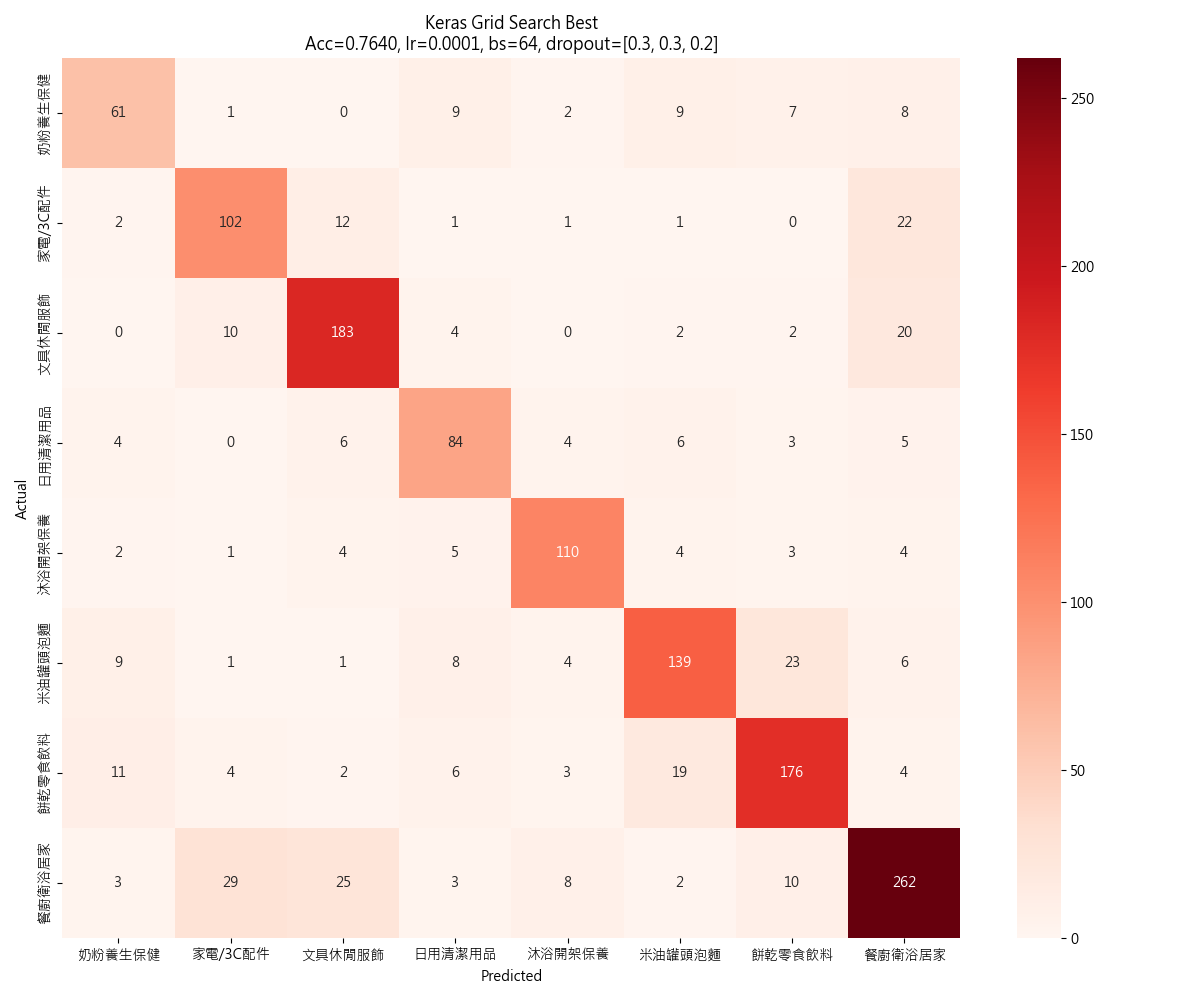
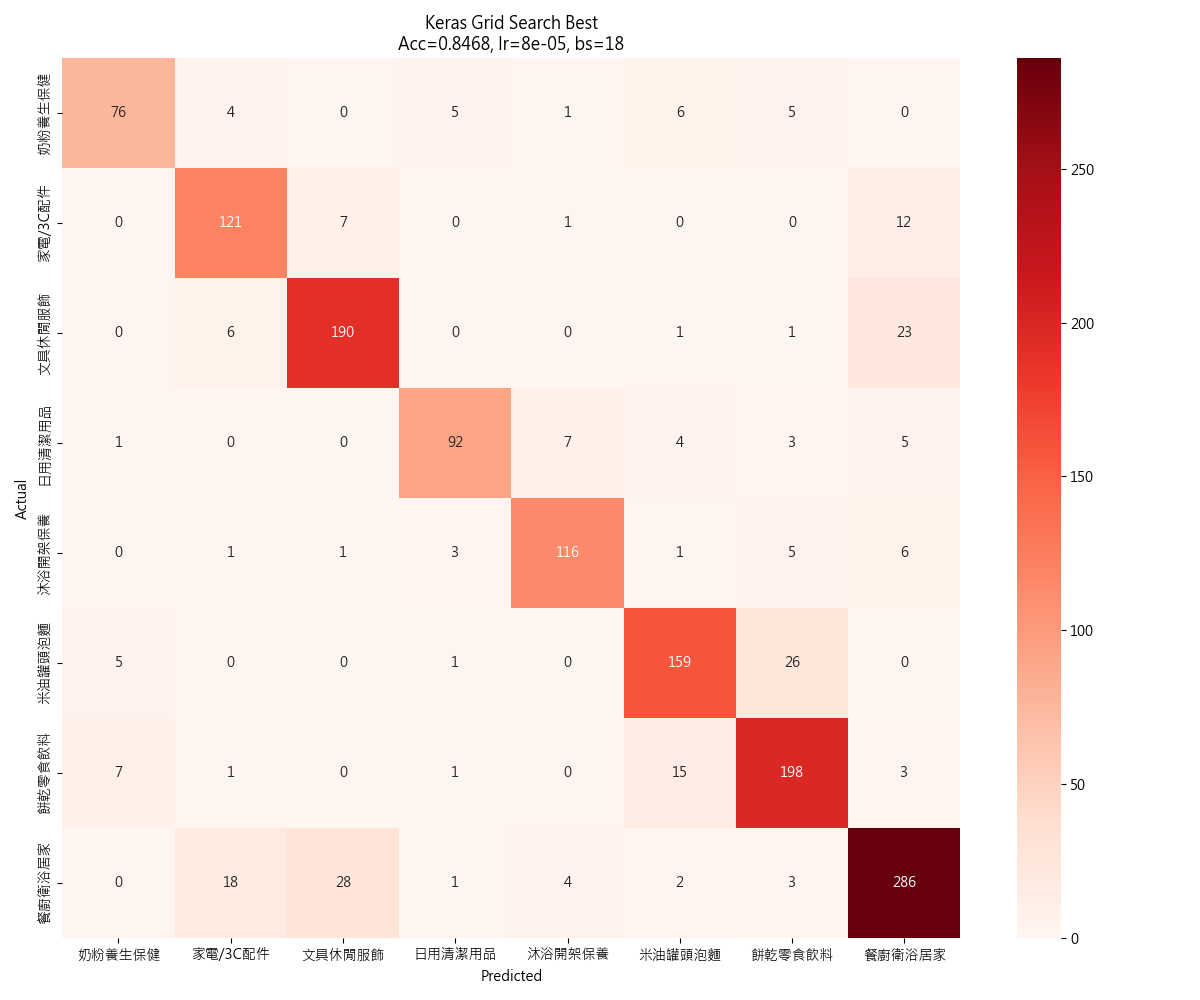
feat: 更新 Keras 模型架構與超參數，新增斷點續練邏輯及最佳化結果紀錄

diff --git a/src/semester-project/08_train_neural_network.pytorch.grid_search.py b/src/semester-project/08_train_neural_network.pytorch.grid_search.py
@@ -40,7 +40,6 @@ def build_keras_model(input_dim, num_classes, learning_rate, dropout_list):
     架構：512 -> 256 -> 128 -> 64 -> Softmax
     dropout_list: [d0, d1, d2, d3] (共 4 個參數)
     """
-    # 解包 4 個 dropout 參數
     if len(dropout_list) != 4:
         raise ValueError(f"Expected 4 dropout values, got {len(dropout_list)}")
 
@@ -147,32 +146,111 @@ def main():
     # 轉換驗證集標籤為 one-hot
     y_valid_keras = to_categorical(y_valid, num_classes=num_classes)
 
-    lr_list = [0.0001, 0.00015, 0.0002, 0.00025, 0.0003, 0.0004]
-
-    bs_list = [16, 20, 24, 28, 32, 40]
-
-    dropout_grid = [
-        [0.4, 0.35, 0.3, 0.25],
-        [0.3, 0.25, 0.2, 0.15],
-        [0.5, 0.45, 0.4, 0.35],
-        [0.35, 0.35, 0.35, 0.35],
+    # 1. Learning Rate: 12 values (0.00005 ~ 0.0004)
+    lr_list = [
+        0.00005,
+        0.00008,
+        0.0001,
+        0.00012,
+        0.00015,
+        0.00018,
+        0.0002,
+        0.00022,
+        0.00025,
+        0.00028,
+        0.0003,
+        0.0004,
     ]
 
-    param_combinations = list(
+    # 2. Batch Size: 9 values
+    bs_list = [16, 18, 20, 22, 24, 26, 28, 32, 48]
+
+    # 3. Dropout Configs: 10 variations
+    dropout_grid = [
+        [0.3, 0.25, 0.2, 0.15],
+        [0.35, 0.3, 0.25, 0.2],
+        [0.4, 0.35, 0.3, 0.25],  # Standard (Baseline)
+        [0.45, 0.4, 0.35, 0.3],
+        [0.5, 0.45, 0.4, 0.35],
+        [0.55, 0.5, 0.45, 0.4],
+        [0.4, 0.4, 0.4, 0.4],
+        [0.3, 0.3, 0.3, 0.3],
+        [0.5, 0.3, 0.3, 0.1],
+        [0.2, 0.3, 0.4, 0.5],
+    ]
+
+    # 產生「所有」可能的組合
+    all_combinations = list(
         itertools.product(lr_list, bs_list, range(len(dropout_grid)))
     )
-    total_combos = len(param_combinations)
+    total_original_combos = len(all_combinations)
 
-    print("\nGrid Search 設定：")
-    print(f"  learning_rate 選項: {lr_list}")
-    print(f"  batch_size 選項  : {bs_list}")
-    print(f"  dropout 組數    : {len(dropout_grid)} 組")
-    for i, d in enumerate(dropout_grid):
-        print(f"    ID {i}: {d}")
-    print(f"  總組合數        : {total_combos}")
+    # ================= [斷點續練邏輯 START] =================
+    existing_combinations = set()
+    global_best_acc = 0.0
+
+    if os.path.isfile(csv_all_file):
+        print(f"\n檢測到歷史紀錄檔: {csv_all_file}")
+        print("正在讀取已完成的進度與最佳準確率...")
+        try:
+            with open(csv_all_file, mode="r", newline="", encoding="utf-8") as f:
+                reader = csv.DictReader(f)
+                for row in reader:
+                    try:
+                        # 讀取參數以進行排除
+                        r_lr = float(row["Learning_Rate"])
+                        r_bs = int(row["Batch_Size"])
+                        r_did = int(row["Dropout_Config_ID"])
+                        r_acc = float(row["Accuracy"])
+
+                        # 加入集合 (Tuple 結構)
+                        existing_combinations.add((r_lr, r_bs, r_did))
+
+                        # 更新目前的最佳紀錄，避免重新跑時以為是新的最佳
+                        if r_acc > global_best_acc:
+                            global_best_acc = r_acc
+
+                    except (ValueError, KeyError) as e:
+                        # 略過解析錯誤的行
+                        continue
+        except Exception as e:
+            print(f"讀取 CSV 時發生警告 (將重新開始): {e}")
+
+    # 過濾掉已經跑過的組合
+    param_combinations = []
+    for combo in all_combinations:
+        lr, bs, d_id = combo
+        # 檢查是否存在於已完成集合中
+        # 為了避免浮點數精度問題 (如 0.0001 vs 0.000100001)，做一個簡單的容差比對
+        is_done = False
+        if (lr, bs, d_id) in existing_combinations:
+            is_done = True
+        else:
+            # 備用檢查：如果直接比對失敗，檢查數值接近度
+            for e_lr, e_bs, e_did in existing_combinations:
+                if e_bs == bs and e_did == d_id and abs(e_lr - lr) < 1e-9:
+                    is_done = True
+                    break
+
+        if not is_done:
+            param_combinations.append(combo)
+
+    skipped_count = total_original_combos - len(param_combinations)
+    total_combos_to_run = len(param_combinations)
+
+    print("\nGrid Search 進度確認：")
+    print(f"  原始總組合數 : {total_original_combos}")
+    print(f"  已執行過組合 : {skipped_count}")
+    print(f"  目前歷史最佳 : {global_best_acc:.6f}")
+    print(f"  剩餘待執行   : {total_combos_to_run}")
     print("=" * 70)
 
-    # 準備 CSV
+    if total_combos_to_run == 0:
+        print("所有組合皆已執行完畢！程式結束。")
+        return
+    # ================= [斷點續練邏輯 END] =================
+
+    # 準備 CSV (如果檔案不存在才寫入 header)
     if not os.path.isfile(csv_all_file):
         with open(csv_all_file, mode="w", newline="", encoding="utf-8") as f:
             writer = csv.writer(f)
@@ -188,19 +266,21 @@ def main():
                     "平台",
                 ]
             )
-        print(f"已建立紀錄檔: {csv_all_file}")
+        print(f"已建立新紀錄檔: {csv_all_file}")
 
-    global_best_acc = 0.0
     best_params = None
     best_preds = None
     best_history = None
 
     start_session_time = time.time()
 
-    for idx, (lr, bs, d_id) in enumerate(param_combinations, start=1):
+    # idx 從 skipped_count + 1 開始顯示，這樣 Log 才會接續 (例如 [101/500])
+    start_idx = skipped_count + 1
+
+    for idx, (lr, bs, d_id) in enumerate(param_combinations, start=start_idx):
         dropouts = dropout_grid[d_id]
         print(
-            f"\n[{idx:03d}/{total_combos}] 開始訓練 - "
+            f"\n[{idx:03d}/{total_original_combos}] 開始訓練 - "
             f"lr={lr}, bs={bs}, dropout={dropouts}"
         )
 
@@ -222,7 +302,6 @@ def main():
             monitor="val_loss", factor=0.5, patience=5, min_lr=1e-6, verbose=0
         )
 
-        # 使用與單一訓練腳本相似的 patience 設定
         early_stopping = EarlyStopping(
             monitor="val_loss",
             patience=10,
@@ -232,7 +311,6 @@ def main():
 
         start_time = time.time()
 
-        # Epochs 設定為 100，依靠 Early Stopping 提早結束
         history = model.fit(
             X_train_smote,
             y_train_keras,
@@ -327,9 +405,9 @@ def main():
             plt.savefig("output/result_images/keras_best_confusion_matrix.png")
             plt.close()
 
-    # 全部跑完後，畫訓練曲線
+    # 全部跑完後，畫訓練曲線 (只有當次執行有產生更好的結果時才會有 best_history)
     if best_history is not None:
-        print("\n繪製最佳組合的訓練曲線...")
+        print("\n繪製本次最佳組合的訓練曲線...")
 
         # 取得 history dict
         h_dict = best_history.history
@@ -359,8 +437,8 @@ def main():
 
         session_time = time.time() - start_session_time
         print("\nGrid Search 完成！")
-        print(f"  總組合數: {total_combos}")
-        print(f"  總耗時  : {session_time/3600:.2f} 小時")
+        print(f"  本次執行數: {total_combos_to_run}")
+        print(f"  總耗時    : {session_time/3600:.2f} 小時")
         print(
             "  最佳組合: "
             f"lr={best_params['learning_rate']}, "
@@ -371,7 +449,7 @@ def main():
         print(f"  紀錄檔案: {csv_all_file}")
         print(f"  模型 / 結果: best_keras_model.keras, keras_results.pkl")
     else:
-        print("\nGrid Search 未找到任何有效結果，請檢查設定。")
+        print("\n本次執行未發現比歷史紀錄更好的模型，或無須執行任何訓練。")
 
 
 if __name__ == "__main__":

diff --git a/src/semester-project/08_train_neural_network.pytorch.py b/src/semester-project/08_train_neural_network.pytorch.py
@@ -47,25 +47,25 @@ def build_keras_model(input_dim, num_classes, learning_rate):
     架構： 512 -> 256 -> 128 -> 64 -> Softmax
     """
     inputs = Input(shape=(input_dim,), name="input_features")
-    # 第一層: 1024 → 適度減少至 512
+    # 第一層: 512
     x = Dense(512, name="dense_512")(inputs)
     x = BatchNormalization(name="batchnorm_0")(x)
     x = Activation("relu", name="activation_0")(x)
     x = Dropout(0.4, name="dropout_0")(x)
 
-    # 第二層: 512 → 256
+    # 第二層: 256
     x = Dense(256, name="dense_256")(x)
     x = BatchNormalization(name="batchnorm_1")(x)
     x = Activation("relu", name="activation_1")(x)
     x = Dropout(0.35, name="dropout_1")(x)
 
-    # 第三層: 256 → 128
+    # 第三層: 128
     x = Dense(128, name="dense_128")(x)
     x = BatchNormalization(name="batchnorm_2")(x)
     x = Activation("relu", name="activation_2")(x)
     x = Dropout(0.3, name="dropout_2")(x)
 
-    # 第四層: 128 → 64
+    # 第四層: 64
     x = Dense(64, name="dense_64")(x)
     x = BatchNormalization(name="batchnorm_3")(x)
     x = Activation("relu", name="activation_3")(x)
@@ -90,7 +90,6 @@ def main():
     print("=" * 70)
 
     TARGET_SEED = 821407
-    print(f">>> 最佳 random_seed: {TARGET_SEED}")
     keras.utils.set_random_seed(TARGET_SEED)
 
     os.makedirs("output/models", exist_ok=True)
@@ -178,7 +177,7 @@ def main():
         X_train_smote,  # SMOTE 後的訓練子集
         y_train_keras,
         batch_size=bs,
-        epochs=100,  # 增加 epochs
+        epochs=100,
         validation_data=(X_valid, y_valid_keras),  # 驗證集（未 SMOTE）
         callbacks=[early_stopping, reduce_lr],
         verbose=1,
